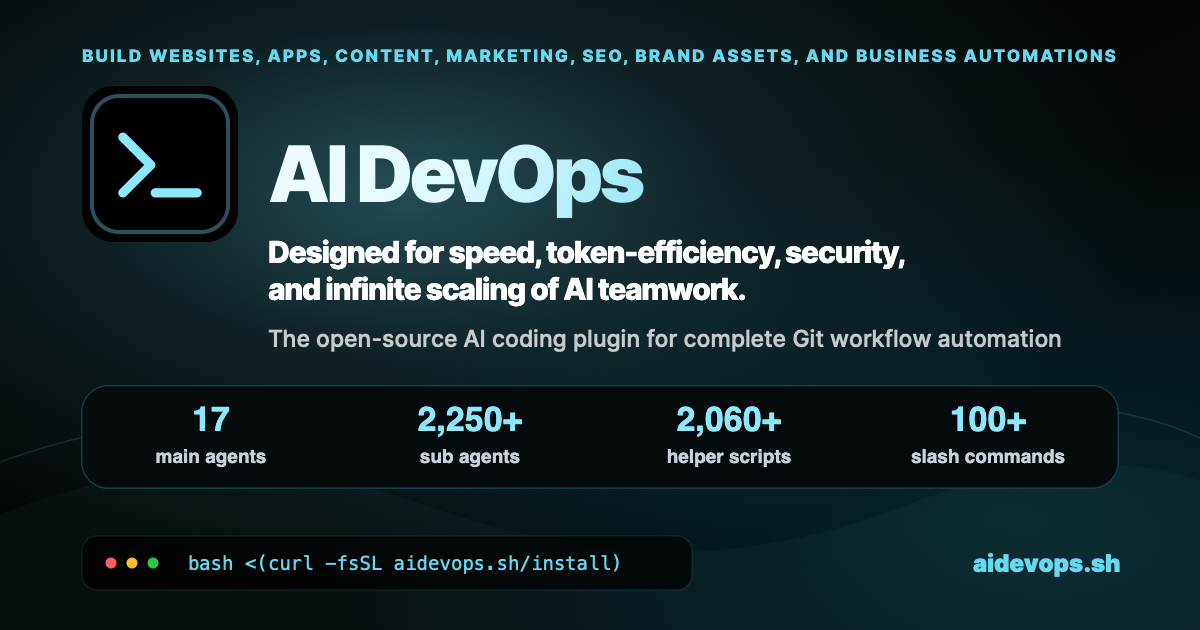
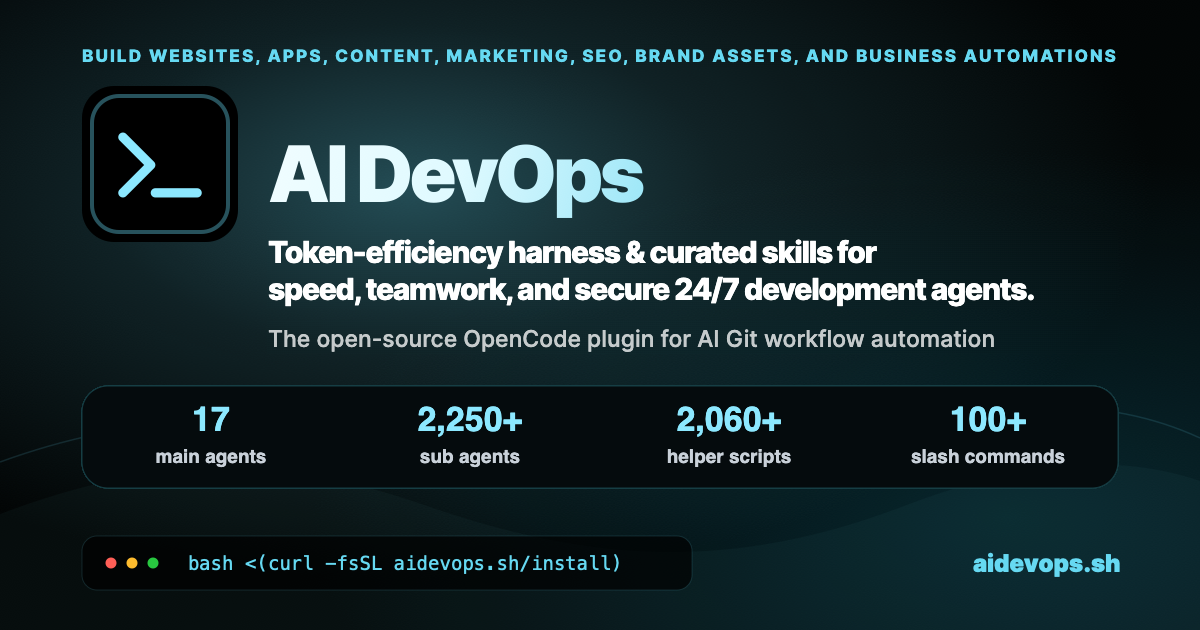
docs(design): adopt elevator-pitch Brand core headline and README hero copy

Changed region(s): [[0.2158, 0.3619, 0.8633, 0.4825], [0.3392, 0.5127, 0.8942, 0.573], [0.2158, 0.5127, 0.3083, 0.5429]]

diff --git a/DESIGN.md b/DESIGN.md
@@ -229,7 +229,7 @@ Source-of-truth order when values disagree: the aidevops.sh `styles.css` `:root`
 
 - Formal product name: `AI DevOps`. Wordmark: lowercase `aidevops` beside the prompt glyph. Domain signature: `aidevops.sh`.
 - Positioning: `AI DevOps Assistant & OpenCode Plugin`.
-- Approved headline: `Scaleable teamwork you can trust` (keep the approved spelling). Supporting line: `OpenCode plugin for autonomous project delivery`. Eyebrow: `24/7 DEVELOPMENT`.
+- Approved headline (the elevator pitch): `Token-efficiency harness & curated skills for speed, teamwork, and secure 24/7 development agents.` Supporting line: `The open-source OpenCode plugin for AI Git workflow automation`. Eyebrow: `24/7 DEVELOPMENT`. Two-line layouts break after `for`, keeping the speed/teamwork/secure list together.
 - Install command: `bash <(curl -fsSL aidevops.sh/install)`.
 - Voice: terminal-native, precise, autonomous, trustworthy. Short declarative copy; no hype, exclamation marks, or emoji in brand surfaces.
 
@@ -408,7 +408,7 @@ Applies to Affinity (`tools/design/affinity.md`), report covers, flyers, and oth
 ## README hero counts
 
 - Preserve the existing `1200x630` cyan terminal hero, headline, background, and installation copy in `docs/assets/og-image.png`. The editable `docs/assets/og-stats.svg` overlay replaces only the statistics card; do not regenerate the whole image just to change numbers.
-- Hero copy edits use the transparent `docs/assets/og-copy.svg` browser overlay. Keep the capability top-line centred at `x=600` with measured bounds `x=82`, width `1036`, using 17px/800 type and `1.95px` letter spacing. Set the two-line headline in 30px/760 type with `-1.25px` letter spacing. Copy rendering may change pixels only within the documented top-line (`1038x24+81+43`) and headline (`851x79+267+230`) rectangles; statistics and all other content remain pixel-identical.
+- Hero copy edits use the transparent `docs/assets/og-copy.svg` browser overlay. Keep the capability top-line centred at `x=600` with measured bounds `x=82`, width `1036`, using 17px/800 type and `1.95px` letter spacing. Set the two-line Brand core headline in 30px/760 type with `-1.25px` letter spacing, and the Brand core supporting line at `x=268 y=347` in 23px/500 type at 76% white (as in the website `og-image.svg`). Copy rendering may change pixels only within the documented top-line (`1038x24+81+43`), headline (`851x79+267+230`), and supporting-line (`851x34+267+320`) rectangles; statistics and all other content remain pixel-identical.
 - Use the user-approved, familiar hero labels exactly: **main agents**, **sub agents**, **helper scripts**, and **slash commands**. Keep the detailed inventory definitions in the README and SVG description rather than replacing these labels with internal terminology. Never add overlapping categories into a combined skills/helpers total. Keep each label directly beneath its figure, with cyan numbers, high-contrast grey labels, and the original rounded near-black card.
 - The inventory is defined in `.agents/scripts/readme_inventory.py` and `readme_inventory_sources.py`, using tracked sources only. Main agents reuse `agent_config.SKIP_FILES`. Sub agents measure individually path-addressable Markdown modules, including callable skills, workflows, templates and references; do not require `mode: subagent` metadata or a narrow directory whitelist. Use the filename rules in `generate-opencode-agents.sh` (`*.md` excluding `README.md`, `AGENTS.md` and `*-skill.md` wrappers), plus demoted root profiles. Exclude test/fixture, generated/vendor/runtime source paths and symlink aliases. This is a source-module count, not a count of unique flattened runtime registrations.
 - Helper scripts include production script/source files and supporting modules in `.agents/scripts/` across the scripting-language suffixes listed in `SCRIPT_SUFFIXES`, plus executable extensionless shebang scripts. Do not restrict them to `*-helper` filenames. Exclude tests, fixtures, generated/vendor files, TypeScript declarations and aliases. Slash commands are direct Markdown entry points in `scripts/commands`, including aliases only when their targets are tracked regular files inside `.agents`. A regular command source can also be a sub-agent module; disclose overlap instead of summing categories.
